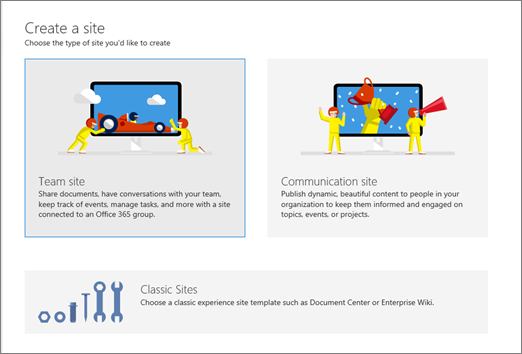
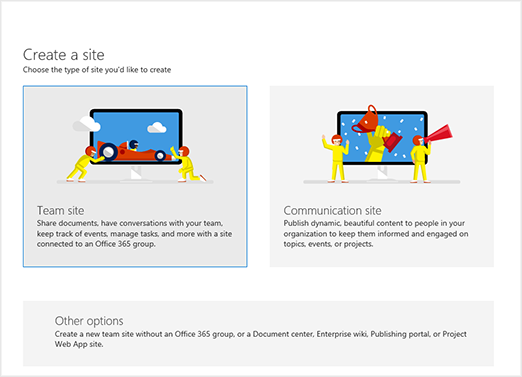
Updated image and alt text

diff --git a/SharePoint/SharePointOnline/manage-sites-in-new-admin-center.md b/SharePoint/SharePointOnline/manage-sites-in-new-admin-center.md
@@ -33,7 +33,7 @@ To manage sites in the new SharePoint admin center, go to the current SharePoint
     
 2. Select to create a team site (which will create an Office 365 group) or a communication site. To create a classic site, or a new team site that doesn't include an Office 365 group, click **Other options**. For info about the new site templates, see [Create a team site in SharePoint Online](https://support.office.com/article/ef10c1e7-15f3-42a3-98aa-b5972711777d) and [Create a communication site in SharePoint Online](https://support.office.com/article/7fb44b20-a72f-4d2c-9173-fc8f59ba50eb).
     
-    ![Create a communication site, team site, or classic site from the admin center](media/c4c5173f-ca83-426f-a940-cb2869a3a64b.png)
+    ![Create a group-connected team site, communication site, or other site from the admin center](media/c4c5173f-ca83-426f-a940-cb2869a3a64b.png)
   
 ## Delete a site
 <a name="deletesite"> </a>
